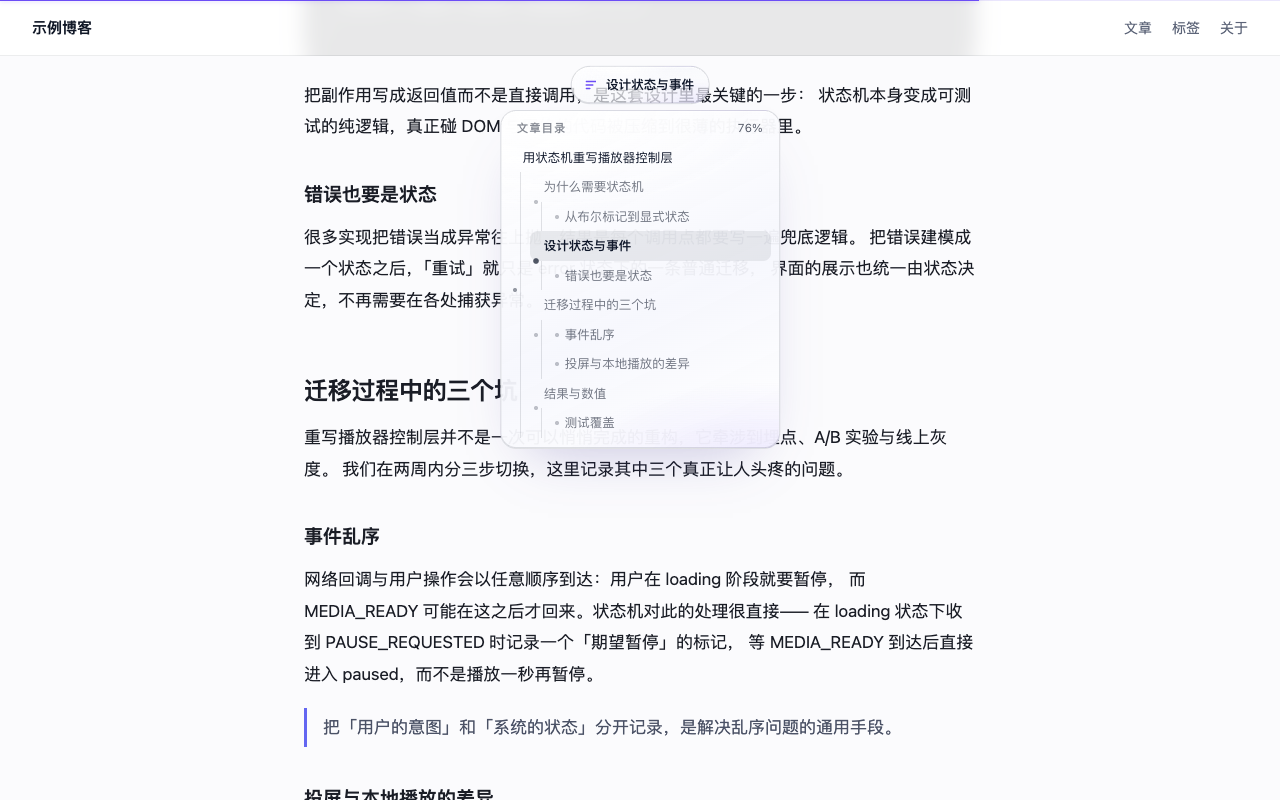
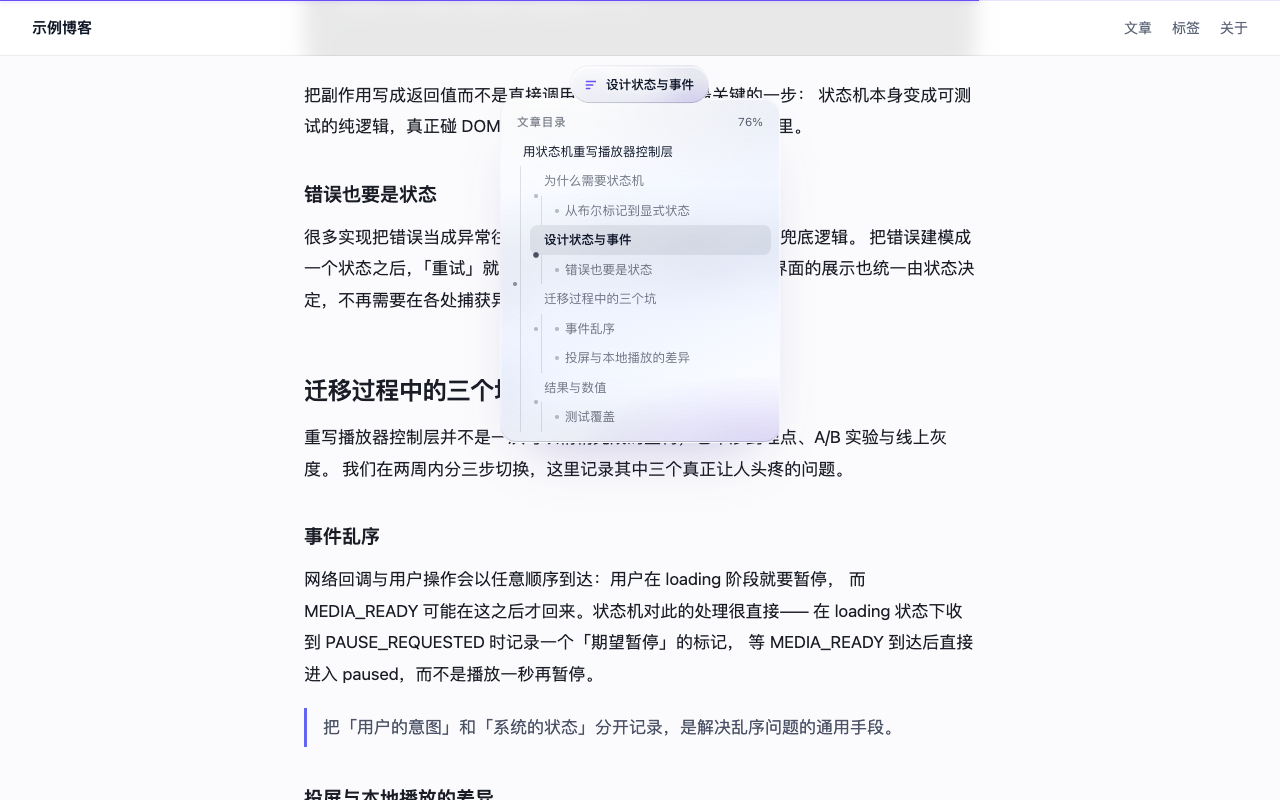
v0.12.2: rebuild liquid glass layer

Changed region(s): [[0.4062, 0.125, 0.5938, 0.5625], [0.4688, 0.0938, 0.5938, 0.1562]]

diff --git a/src/content/style.css b/src/content/style.css
@@ -32,21 +32,21 @@
   --wss-brand: #6c4df6;
   --wss-glass-pill: linear-gradient(
     145deg,
-    rgb(255 255 255 / 84%) 0%,
-    rgb(242 244 251 / 58%) 52%,
-    rgb(255 255 255 / 74%) 100%
+    rgb(255 255 255 / 42%) 0%,
+    rgb(221 231 255 / 18%) 52%,
+    rgb(255 255 255 / 31%) 100%
   );
   --wss-glass-panel: linear-gradient(
     155deg,
-    rgb(255 255 255 / 98%) 0%,
-    rgb(246 247 253 / 95%) 58%,
-    rgb(255 255 255 / 97%) 100%
+    rgb(255 255 255 / 72%) 0%,
+    rgb(226 235 255 / 54%) 58%,
+    rgb(255 255 255 / 66%) 100%
   );
-  --wss-glass-edge: rgb(255 255 255 / 76%);
-  --wss-glass-border: rgb(15 23 42 / 13%);
-  --wss-glass-shade: rgb(15 23 42 / 13%);
-  --wss-glass-shine: rgb(255 255 255 / 68%);
-  --wss-glass-caustic: rgb(108 77 246 / 12%);
+  --wss-glass-edge: rgb(255 255 255 / 82%);
+  --wss-glass-border: rgb(255 255 255 / 54%);
+  --wss-glass-shade: rgb(15 23 42 / 20%);
+  --wss-glass-shine: rgb(255 255 255 / 72%);
+  --wss-glass-caustic: rgb(108 77 246 / 20%);
   --wss-glass-shadow: rgb(15 23 42 / 20%);
 
   opacity: 1;
@@ -60,18 +60,18 @@
   --wss-brand: #b1a1ff;
   --wss-glass-pill: linear-gradient(
     145deg,
-    rgb(255 255 255 / 18%) 0%,
-    rgb(20 22 29 / 62%) 52%,
-    rgb(255 255 255 / 14%) 100%
+    rgb(255 255 255 / 22%) 0%,
+    rgb(17 19 28 / 28%) 52%,
+    rgb(255 255 255 / 13%) 100%
   );
   --wss-glass-panel: linear-gradient(
     155deg,
-    rgb(26 29 38 / 98%) 0%,
-    rgb(18 20 27 / 96%) 58%,
-    rgb(30 33 44 / 97%) 100%
+    rgb(25 28 39 / 78%) 0%,
+    rgb(12 14 21 / 68%) 58%,
+    rgb(31 34 48 / 74%) 100%
   );
-  --wss-glass-edge: rgb(255 255 255 / 20%);
-  --wss-glass-border: rgb(255 255 255 / 18%);
+  --wss-glass-edge: rgb(255 255 255 / 34%);
+  --wss-glass-border: rgb(255 255 255 / 28%);
   --wss-glass-shade: rgb(0 0 0 / 34%);
   --wss-glass-shine: rgb(255 255 255 / 20%);
   --wss-glass-caustic: rgb(177 161 255 / 16%);
@@ -155,6 +155,7 @@
 /* ── 液态玻璃胶囊 ───────────────────────────────────── */
 
 .wss-pill {
+  z-index: 2;
   position: relative;
   isolation: isolate;
   display: flex;
@@ -182,6 +183,7 @@
   cursor: grab;
   user-select: none;
   color: var(--wss-fg);
+  text-shadow: 0 1px 8px color-mix(in srgb, var(--wss-surface) 42%, transparent);
   transition: box-shadow 0.22s ease, scale 0.18s ease;
 }
 
@@ -316,7 +318,8 @@
 
 .wss-below {
   position: absolute;
-  top: calc(100% + 6px);
+  z-index: 1;
+  top: calc(100% - 6px);
   left: 50%;
   width: max-content;
   max-width: min(84vw, 320px);
@@ -328,7 +331,7 @@
 
 .wss-below[data-placement='above'] {
   top: auto;
-  bottom: calc(100% + 6px);
+  bottom: calc(100% - 6px);
 }
 
 .wss-root[data-drawer-align='left'] .wss-below {
@@ -349,7 +352,7 @@
   max-width: min(84vw, 320px);
   max-height: var(--wss-drawer-max-height, min(62vh, 520px));
   box-sizing: border-box;
-  padding: 8px;
+  padding: 14px 8px 8px;
   overflow: auto;
   border-radius: 16px;
   background:
@@ -399,6 +402,8 @@
 }
 
 .wss-below[data-placement='above'] .wss-drawer {
+  padding-top: 8px;
+  padding-bottom: 14px;
   transform-origin: 50% 100%;
 }
 

diff --git a/src/content/ui.ts b/src/content/ui.ts
@@ -147,6 +147,14 @@ export class StickyUI {
     this.drawerProgress = root.querySelector<HTMLElement>('.wss-drawer-progress');
     this.rows = new Map();
 
+    // Keep the standard property as an inline declaration: the build minifier
+    // otherwise leaves only the WebKit alias, which is not honoured consistently.
+    const glassFilter = 'blur(26px) saturate(210%) contrast(1.04)';
+    this.pill?.style.setProperty('backdrop-filter', glassFilter);
+    this.pill?.style.setProperty('-webkit-backdrop-filter', glassFilter);
+    this.drawer?.style.setProperty('backdrop-filter', glassFilter);
+    this.drawer?.style.setProperty('-webkit-backdrop-filter', glassFilter);
+
     const outline = root.querySelector<HTMLDivElement>('.wss-outline');
     if (outline) outline.appendChild(this.buildOutline());
 

diff --git a/src/popup/popup.html b/src/popup/popup.html
@@ -277,7 +277,7 @@
 
     <footer>
       <button class="link" id="options" type="button">更多设置</button>
-      <span id="version">v0.12.1</span>
+      <span id="version">v0.12.2</span>
     </footer>
 
     <script type="module" src="./popup.ts"></script>
